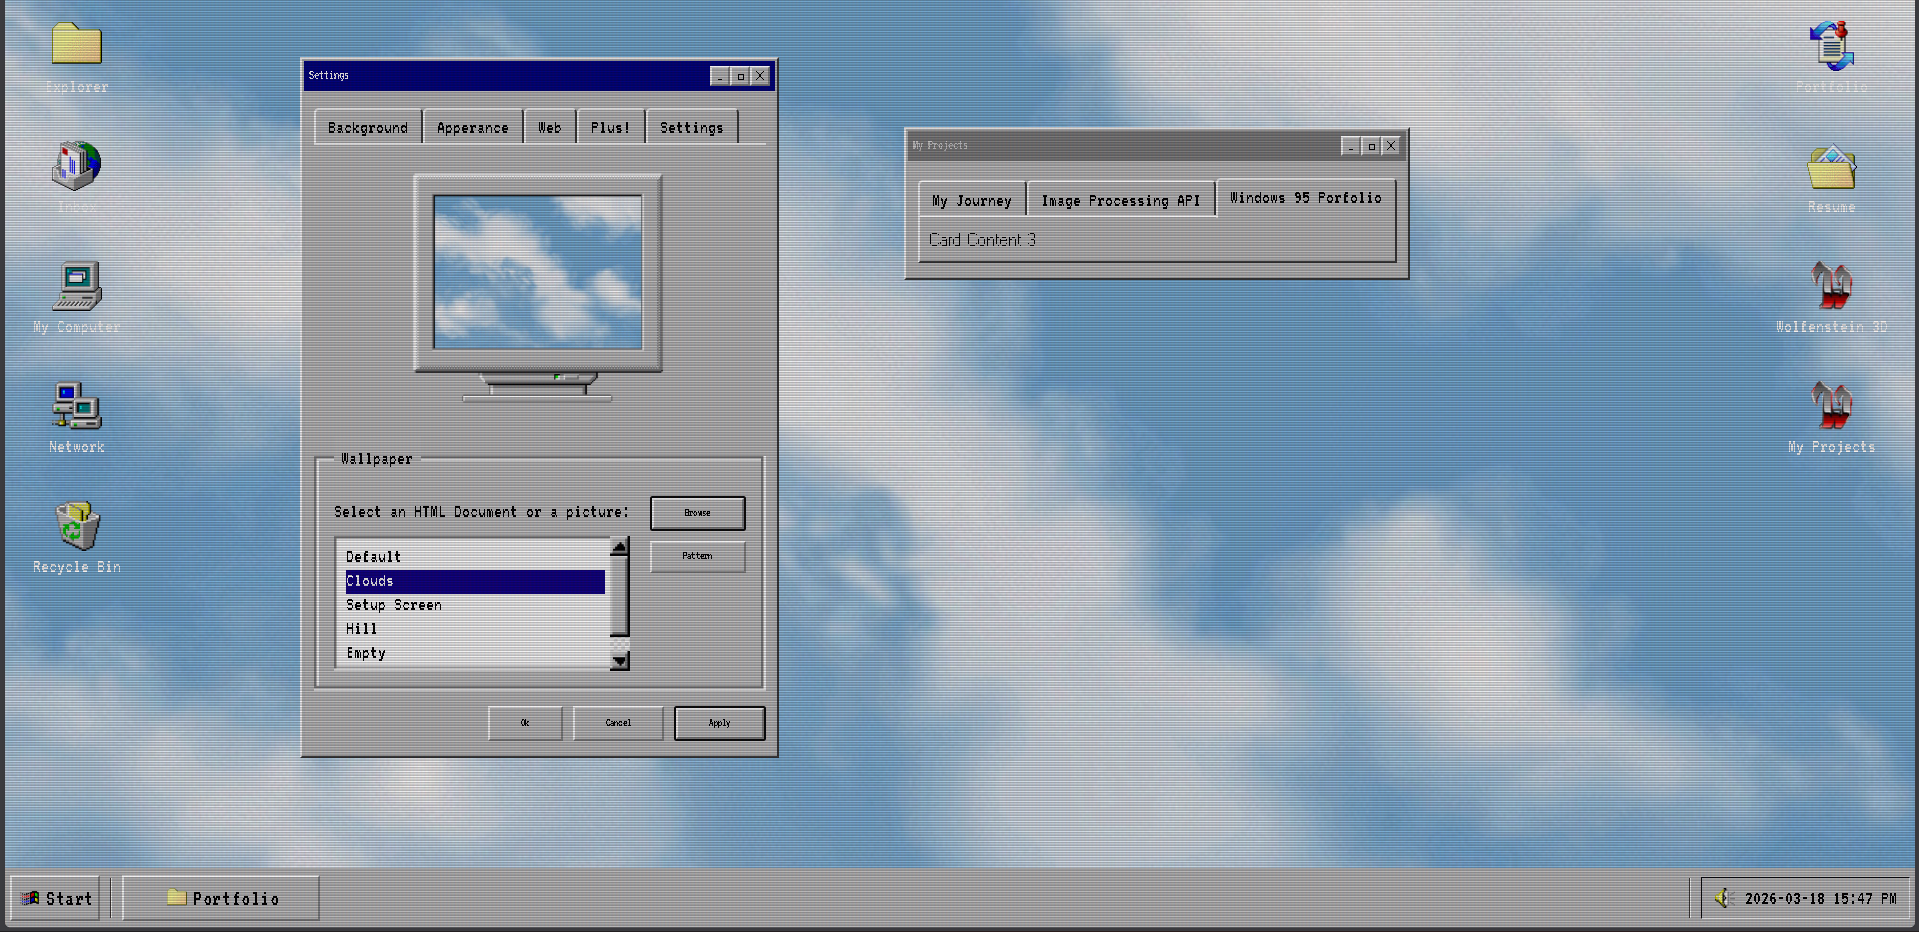
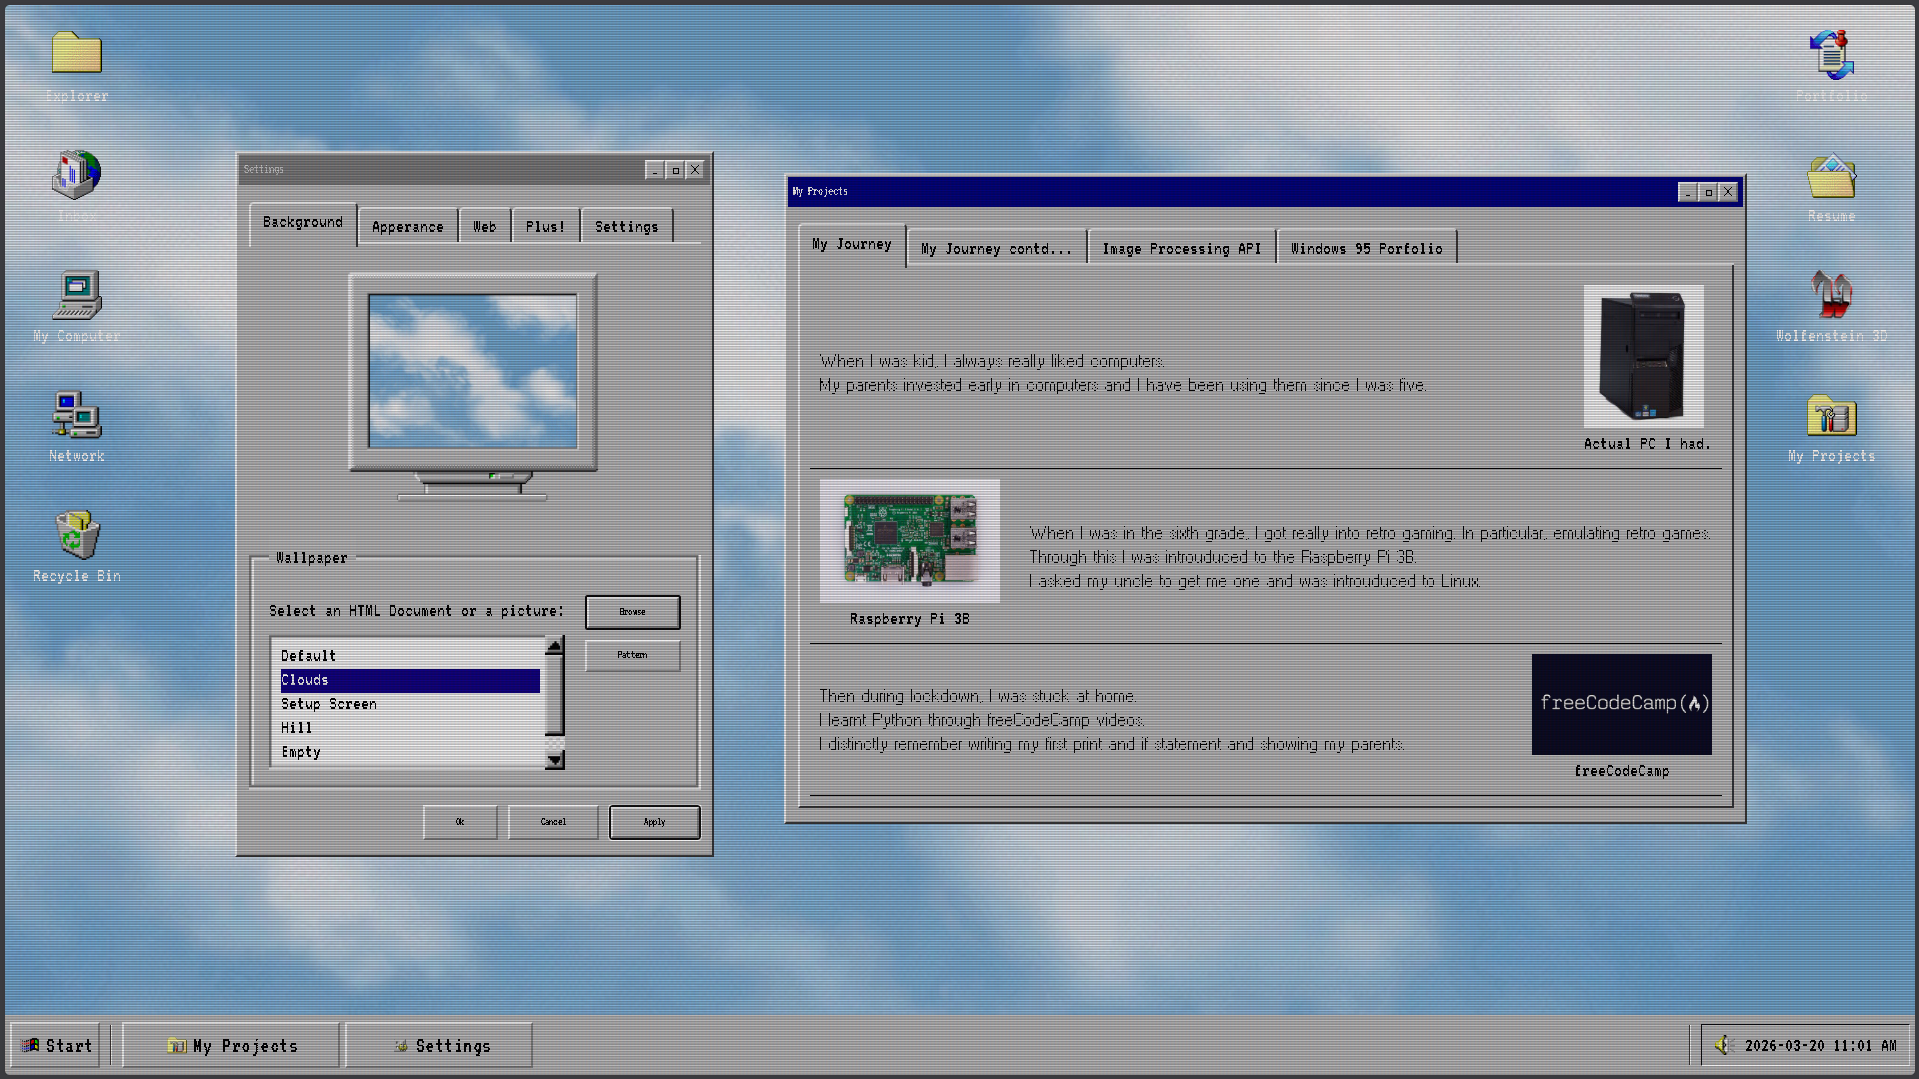
Some bug fixing and window postion changed screenshot in projects page.

diff --git a/script.js b/script.js
@@ -1,7 +1,3 @@
-if (localStorage.getItem("bg")) {
-  document.body.style.backgroundImage = localStorage.getItem("bg");
-}
-
 function updateTime() {
   var currentTime = dayjs().format("YYYY-MM-DD HH:mm A");
   var timeElement = document.getElementById("datetime");
@@ -152,15 +148,20 @@ document.addEventListener("click", (e) => {
 
 function makeVisible(window) {
   const card = document.querySelector(`[data-title="${window}"]`);
+  // console.log(card)
   card.style.display = "block";
 
   document.querySelectorAll("#window").forEach((element) => {
+    if (element.style.zIndex == 999999) {
+      return;
+    }
     element.style.zIndex = 10;
     element.closest(".card").classList.remove("card-tertiary");
   });
 
   card.style.zIndex = 9999;
   card.closest(".card").classList.add("card-tertiary");
+  console.log(card.closest(".card").classList, card.style.zIndex);
 
   const taskElement = document.querySelector(`[data-window="${window}"]`);
   if (taskElement) {
@@ -172,14 +173,14 @@ function delay(ms) {
   return new Promise((resolve) => setTimeout(resolve, ms));
 }
 
-async function cursor_wait() {
+async function cursor_wait(time) {
   document.body.style.cursor = `url('./cursor/Cursor_3.cur'), auto`;
-  await delay(1000);
+  await delay(time);
   document.body.style.cursor = `url('./cursor/arrow.cur'), auto`;
 }
 
 document.addEventListener("dblclick", async (e) => {
-  await cursor_wait();
+  await cursor_wait(2000);
   const btn = e.target.closest("[data-windowsrc]");
   const card = document.querySelector(
     `[data-title="${btn.dataset.windowsrc}"]`,
@@ -207,26 +208,53 @@ document.querySelectorAll(".desktop-icon").forEach((icon) => {
   dragElement(icon);
 });
 
-document.querySelector(".login-submit").addEventListener("click", (e) => {
+document.querySelector(".error-ok").addEventListener("click", (e) => {
+  e.target.closest(".card").style.display = "none";
+});
+
+document.querySelector(".login-submit").addEventListener("click", async (e) => {
   if (
     document.querySelector("#username").value == "admin" &&
     document.querySelector("#password").value == "1234"
   ) {
+    cursor_wait(1000);
     document.querySelector(".login-window").style.display = "none";
     const audio = new Audio("./audio/windows-95-startup-sound.mp3");
     audio.play();
-    audio.addEventListener("ended", () => {});
+    await cursor_wait(2000);
+    if (localStorage.getItem("bg")) {
+      document.body.style.backgroundImage = localStorage.getItem("bg");
+    }
     document.querySelector(".desktop").style.display = "block";
+    audio.addEventListener("ended", () => {});
   } else {
+    // makeVisible("error");
     let error_card = document.querySelector(`[data-title=error]`);
     const audio = new Audio("./audio/windows-95-error-sound-effect.mp3");
     audio.play();
-    document.querySelector(".error-ok").addEventListener("click", (e) => {
-      e.target.closest(".card").style.display = "none";
-    });
+    error_card.style.zIndex = 999999;
+
+    // document.querySelectorAll("#window").forEach((element) => {
+    //   if (element.style.zIndex != 999999) {
+    //     element.style.zIndex = 10;
+    //     element.classList.remove("card-tertiary");
+    //   } else {
+    //     console.log(element);
+    //   }
+    // });
+    console.log(error_card);
+    error_card.style.zIndex = 999999;
+    error_card.classList.add("card-tertiary");
+    // document.querySelector(".login-window").classList.remove("card-teritiary");
+    console.log()
     error_card.style.display = "block";
-    document.querySelector(".login-window").style.zIndex = "10";
-    error_card.style.zIndex = "99999999";
+    console.log(error_card);
+
+    // document.querySelector(".login-window").style.zIndex = "-1";
+    console.log(document.querySelector(".login-window").style.zIndex);
+    // error_card.style.zIndex = "99999999";
+    // error_card.style.display = "block";
+    console.log(error_card.style.zIndex);
   }
   // document.querySelector(".login-window").style.display = "none";
   // const audio = new Audio("./audio/windows-95-startup-sound.mp3");
@@ -268,14 +296,15 @@ if (document.querySelector(".download-btn")) {
         clearInterval(interval);
       }
     }, 200);
-
-    // e.target.parentElement.parentElement.querySelector(".download-progress").value = 20;
   });
 }
 console.log(width);
 document.querySelectorAll("#window").forEach((element) => {
   element.addEventListener("click", () => {
     document.querySelectorAll("#window").forEach((element) => {
+      if (element.style.zIndex == 999999) {
+        return;
+      }
       element.style.zIndex = 10;
       element.closest(".card").classList.remove("card-tertiary");
     });
@@ -294,54 +323,46 @@ document.querySelector(".start-btn").addEventListener("click", (e) => {
   }
 });
 
-document.querySelector(".logout-btn").addEventListener("click", (e) => {
-  document.querySelector(".login-window").style.display = "block";
+document.querySelector(".logout-btn").addEventListener("click", async (e) => {
   const audio = new Audio("./audio/windows-95-logout-sound-effect.mp3");
+  await cursor_wait(2000);
   audio.play();
-  audio.addEventListener("ended", () => {});
   document.querySelector(".desktop").style.display = "none";
   document.querySelector(".menu-bar").style.display = "none";
+  document.body.style.backgroundImage = "url('./images/background.png')";
+  document.querySelector(".login-window").style.display = "block";
 });
 
 document.querySelector(".settings-btn").addEventListener("click", (e) => {
-  // document.querySelector(".login-window").style.display = "block";
-  // const audio = new Audio("./audio/windows-95-logout-sound-effect.mp3");
-  // audio.play();
   makeVisible("settings");
-  // document.querySelector(".settings-window").style.display = "block";
-  // audio.addEventListener("ended", () => {});
-  // document.querySelector(".desktop").style.display = "none";
   document.querySelector(".menu-bar").style.display = "none";
 });
 
 document.querySelectorAll(".dummy-btn").forEach((element) => {
   element.addEventListener("click", (e) => {
-    // document.querySelector(".login-window").style.display = "block";
-    // const audio = new Audio("./audio/windows-95-logout-sound-effect.mp3");
-    // audio.play();
     document.querySelector(".dummy-window").style.display = "block";
-    // audio.addEventListener("ended", () => {});
-    // document.querySelector(".desktop").style.display = "none";
     document.querySelector(".menu-bar").style.display = "none";
   });
 });
 
-document.querySelector(".sleep-btn").addEventListener("click", (e) => {
-  document.querySelector(".login-window").style.display = "block";
+document.querySelector(".sleep-btn").addEventListener("click", async (e) => {
   const audio = new Audio("./audio/windows-95-logout-sound-effect.mp3");
+  await cursor_wait(2000);
   audio.play();
-  audio.addEventListener("ended", () => {});
   document.querySelector(".desktop").style.display = "none";
   document.querySelector(".menu-bar").style.display = "none";
+  document.body.style.backgroundImage = "url('./images/background.png')";
+  document.querySelector(".login-window").style.display = "block";
 });
 
-document.querySelector(".shutdown-btn").addEventListener("click", (e) => {
-  document.querySelector(".login-window").style.display = "block";
+document.querySelector(".shutdown-btn").addEventListener("click", async (e) => {
   const audio = new Audio("./audio/windows-95-logout-sound-effect.mp3");
+  await cursor_wait(2000);
   audio.play();
-  audio.addEventListener("ended", () => {});
   document.querySelector(".desktop").style.display = "none";
   document.querySelector(".menu-bar").style.display = "none";
+  document.body.style.backgroundImage = "url('./images/background.png')";
+  document.querySelector(".login-window").style.display = "block";
 });
 
 document.querySelector(".bg-apply").addEventListener("click", (e) => {
@@ -369,6 +390,5 @@ document.querySelectorAll(".tab").forEach((element) => {
     document
       .getElementById(`${element.dataset.set}`)
       .classList.add("is-active");
-    // document.target.element.id;
   });
 });

diff --git a/index.html b/index.html
@@ -60,9 +60,8 @@
 
     <!-- Error Window -->
 
-    <div class="card fixed card-tertiary top-1/3 -z-50 custom-window" style="display: none;" id="window"
-      data-title="error">
-      <div class="card-header flex justify-between">
+    <div class="card fixed card-tertiary top-1/3 left-1/3 custom-window" style="display: none;" id="window" data-title="error">
+      <div class="card-header flex justify-between" data-title="error">
         <span>Windows Networking</span>
         <div class="window-buttons flex items-center justify-center">
           <button class="btn btn-primary p-0! w-4 h-4" id="btn-minimize">
@@ -88,28 +87,28 @@
       </div>
     </div>
 
-    <div class="desktop">
+    <div class="desktop" style="display: none;">
       <!-- Desktop Icons -->
 
       <div class="flex justify-between h-screen">
         <div class="inline-flex p-4 gap-6 flex-col items-center">
-          <div class="desktop-icon flex justify-center items-center flex-col" data-windowsrc="portfolio">
+          <div class="desktop-icon flex justify-center items-center flex-col" data-windowsrc="dummy">
             <img src="images/explorer-desktop-icon.png" class="w-10 h-10" />
             <span class="text-white text-center">Explorer</span>
           </div>
-          <div class="desktop-icon flex justify-center items-center flex-col">
+          <div class="desktop-icon flex justify-center items-center flex-col" data-windowsrc="dummy">
             <img src="images/mailbox-desktop-icon.png" class="w-10 h-10" />
             <span class="text-white text-center">Inbox</span>
           </div>
-          <div class="desktop-icon flex justify-center items-center flex-col">
+          <div class="desktop-icon flex justify-center items-center flex-col" data-windowsrc="dummy">
             <img src="images/computer-desktop-icon.png" class="w-10 h-10" />
             <span class="text-white text-center">My Computer</span>
           </div>
-          <div class="desktop-icon flex justify-center items-center flex-col">
+          <div class="desktop-icon flex justify-center items-center flex-col" data-windowsrc="dummy">
             <img src="images/network-desktop-icon.png" class="w-10 h-10" />
             <span class="text-white text-center">Network</span>
           </div>
-          <div class="desktop-icon flex justify-center items-center flex-col">
+          <div class="desktop-icon flex justify-center items-center flex-col" data-windowsrc="dummy">
             <img src="images/recycle-desktop-icon.png" class="w-10 h-10" />
             <span class="text-white text-center">Recycle Bin</span>
           </div>
@@ -162,7 +161,7 @@
             <img src="./images/resume-desktop-icon.png" class="p-2 w-16 h-16">
             <div class=" flex flex-col gap-3">
               <p class="card-text m-0! w-full download-text">
-                Dowload Resume
+                Download Resume
               </p>
               <progress value="0" class="w-96! h-8! download-progress"></progress>
               <div class="flex justify-center">
@@ -176,7 +175,7 @@
 
       <!-- Settings Window -->
 
-      <div class="card fixed card-tertiary top-40 left-40 custom-window settings-window" id="window"
+      <div class="card fixed card-tertiary top-1/8 left-1/3 custom-window settings-window" id="window"
         data-title="settings" style="display: none;">
         <div class="card-header flex justify-between">
           <span>Settings</span>
@@ -341,7 +340,8 @@
               </figure>
               <p>
                 Then at
-                college, I was introuduced to full-stack development and leetcode.<br /> My foucs shifted to placements which is
+                college, I was introuduced to full-stack development and leetcode.<br /> My focus shifted to placements
+                which is
                 where
                 it
                 stands now.
@@ -352,7 +352,8 @@
             <div class="flex justify-between gap-4 items-center">
               <figure class="flex flex-col items-center justify-center">
                 <img src="./images/urlvidbg (1).gif" class="w-88" />
-                <figcaption style="font-family: VT323, monospace;" class="text-center">URL based Image Transformation Example
+                <figcaption style="font-family: VT323, monospace;" class="text-center">URL based Image Transformation
+                  Example
               </figure>
               <figure class="flex flex-col items-center justify-center">
                 <img src="./images/img-processing-demo.png" class="w-112 h-full" />
@@ -386,7 +387,8 @@
               <p class="text-center" style="font-family: 'VT323'; font-size: 1rem;">Windows 95 Portfolio</p>
               <p class="text-center">
                 This is a Portfolio that I made with HTML, CSS and JavaScript.<br />
-                The goal of this project is for me to showcase my projects, resume, portfolio and also to have anyone read my journey into coding.
+                The goal of this project is for me to showcase my projects, resume, portfolio and also to have anyone
+                read my journey into coding.
               </p>
             </div>
           </div>
@@ -461,7 +463,7 @@
 
       <!-- Not Implemented Window -->
 
-      <div class="card fixed card-tertiary top-1/3 -z-50 custom-window dummy-window" style="display: none;" id="window"
+      <div class="card fixed card-tertiary top-1/3 left-1/3 -z-50 custom-window dummy-window" style="display: none;" id="window"
         data-title="dummy">
         <div class="card-header flex justify-between">
           <span>Windows Networking</span>
@@ -476,7 +478,7 @@
           </div>
         </div>
         <div class="card-body">
-          <div class="flex gap-4 items-center justify-center ">
+          <div class="flex gap-4 items-center top-1/2 bottom-1/2 justify-center ">
             <img src="./images/error-dialog-box.png" class="w-8 h-8">
             <div class="flex flex-col ">
               <p class="card-text">This feature is not implemented. Please try the left hand side icons or settings.
@@ -568,7 +570,7 @@
           </div>
           <div data-window="resume" style="display: none;">
             <button class="btn btn-primary text-lg! text-center! flex! items-center!" data-window="portfolio">
-              <img src="./images/explorer-desktop-icon.png" class="h-4 w-4 m-1" />
+              <img src="./images/resume-desktop-icon.png" class="h-4 w-4 m-1" />
               <span class="btn-text">Resume</span>
             </button>
           </div>
@@ -585,7 +587,7 @@
             </button>
           </div>
           <div data-window="settings" style="display: none;">
-            <button class="btn btn-primary text-lg! text-center! flex! items-center!" data-window="projects">
+            <button class="btn btn-primary text-lg! text-center! flex! items-center!" data-window="settings">
               <img src="./images/menu-settings-icon.png" class="h-4 w-4 m-1" />
               <span class="btn-text">Settings</span>
             </button>
@@ -600,7 +602,7 @@
           </div>
         </div>
 
-        <div class="card fixed card-tertiary top-40 left-40 custom-window login-window none" id="window"
+        <div class="card fixed card-tertiary top-1/8 left-1/3 custom-window login-window none" id="window"
           data-title="game" style="display: none;">
           <div class="card-header flex justify-between">
             <span>Wolfenstein 3D</span>
